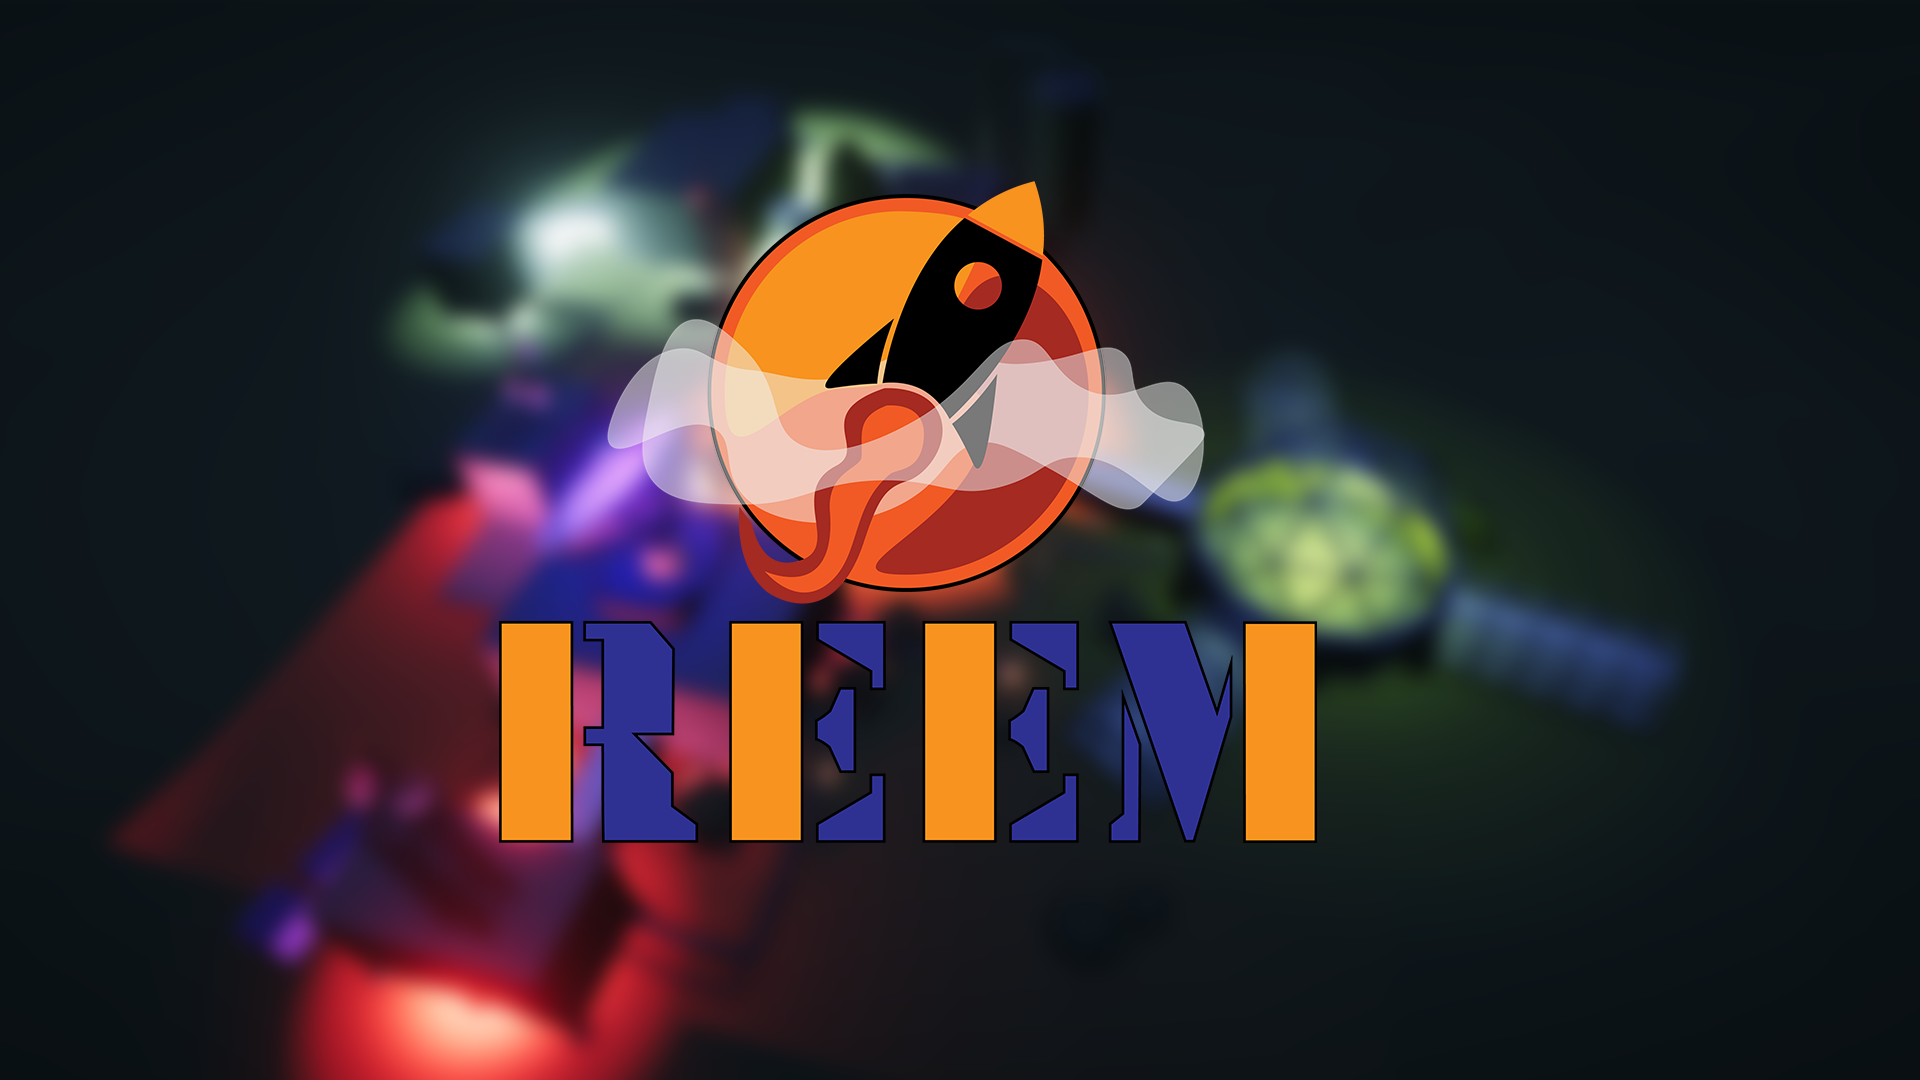
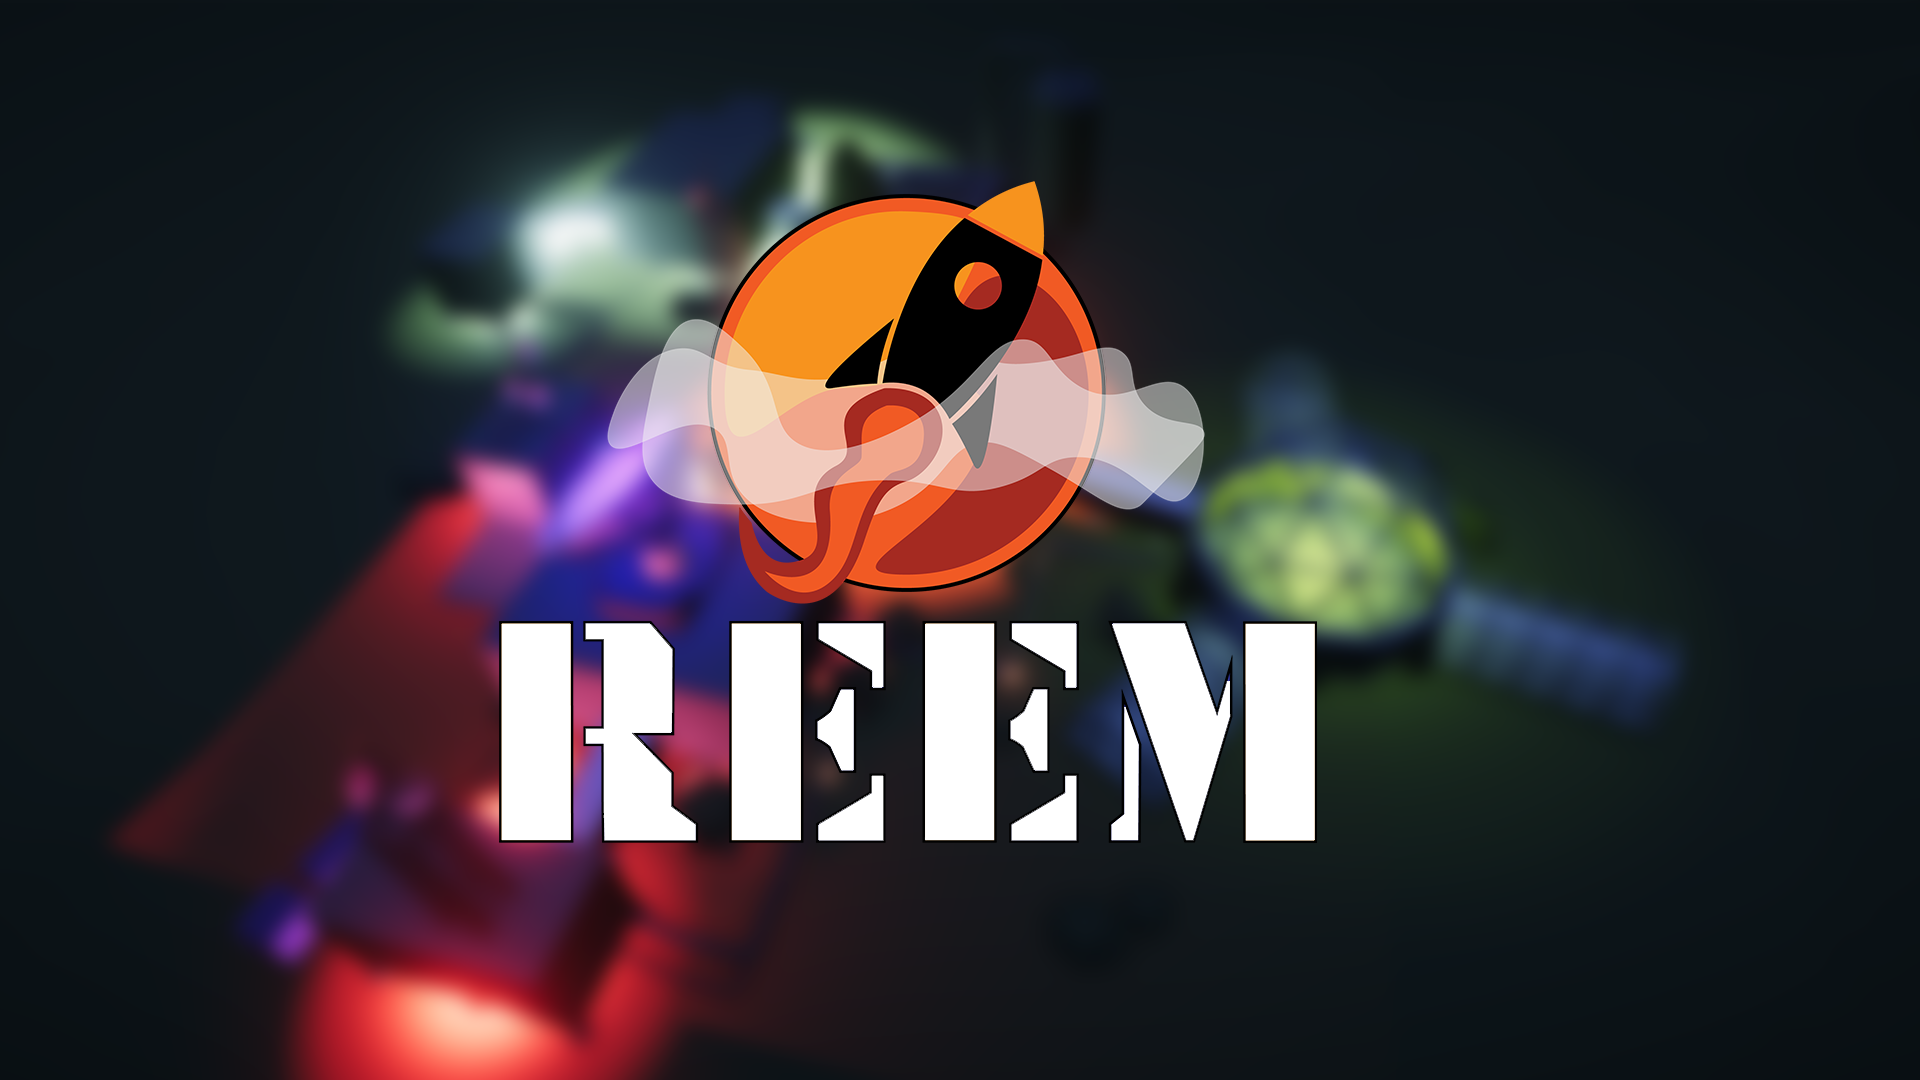
Ajout du fond et de la font

Changed region(s): [[0.25, 0.55, 0.6875, 0.7944]]

diff --git a/index.html b/index.html
@@ -5,6 +5,8 @@
         <meta charset="UTF-8">
         <link rel="stylesheet" href="style.css" media="screen" />
         <title>REEM</title>
+        <link href="https://fonts.googleapis.com/css?family=Bebas+Neue&display=swap" rel="stylesheet">
+
     </head>
     <header>
         <img src="img/fond1.png" width="100%" eight="100%" />
@@ -43,6 +45,23 @@
 
         <div id="concept">
             <h2>Le concept...</h2>
-            <h3>Votre </h3>
+            <h4>REEM est un jeu en vue de 3/4, de type RTS. Vous aurez donc a interagir avec vos REEM pour recolter vos ressources. Vous aurez a construire vos REEM dans le hangar de la base. Une fois construit il vous faudra affecter à chacun des vos agents
+                une tâches à réaliser.
+            </h4>
+            <style>
+                .parallax {
+                    /* The image used */
+                    /* Set a specific height */
+                    height: 1000px;
+                    /* Create the parallax scrolling effect */
+                    background-attachment: fixed;
+                    background-position: center;
+                    background-repeat: no-repeat;
+                    background-size: cover;
+                }
+            </style>
+
+            <!-- Container element -->
+            <div class="parallax"></div>
         </div>
     </body>

diff --git a/Style.css b/Style.css
@@ -1,17 +1,18 @@
 h2 {
     text-align: center;
-    color: whitesmoke;
+    color: black;
     font-size: 10em;
     background-image: url(fusee.jpg);
 }
 
 body {
-    background-color: rgb(15, 5, 107);
+    background-color: rgb(255, 255, 255);
+    font-family: 'Bebas Neue', cursive;
 }
 
 h4 {
     text-align: center;
-    color: whitesmoke;
+    color: black;
     font-size: 2em;
     padding-left: 20%;
     padding-right: 20%
